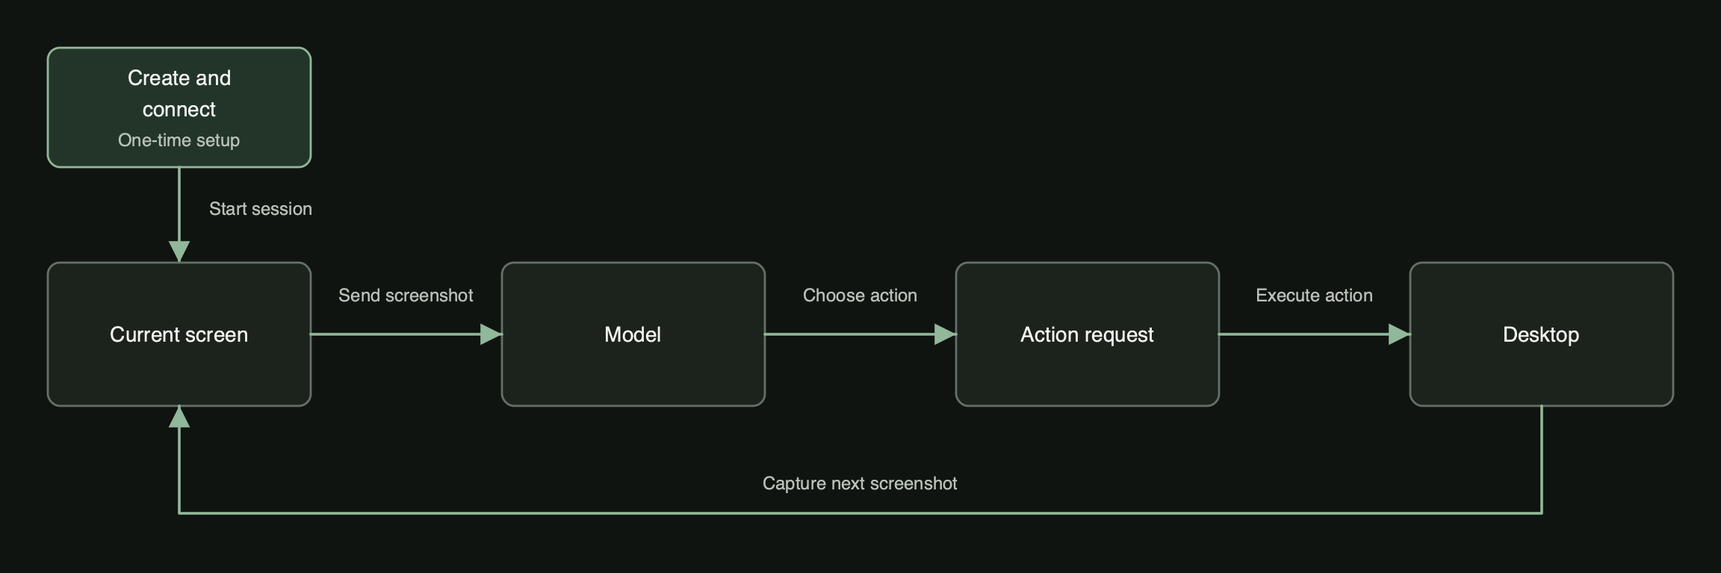
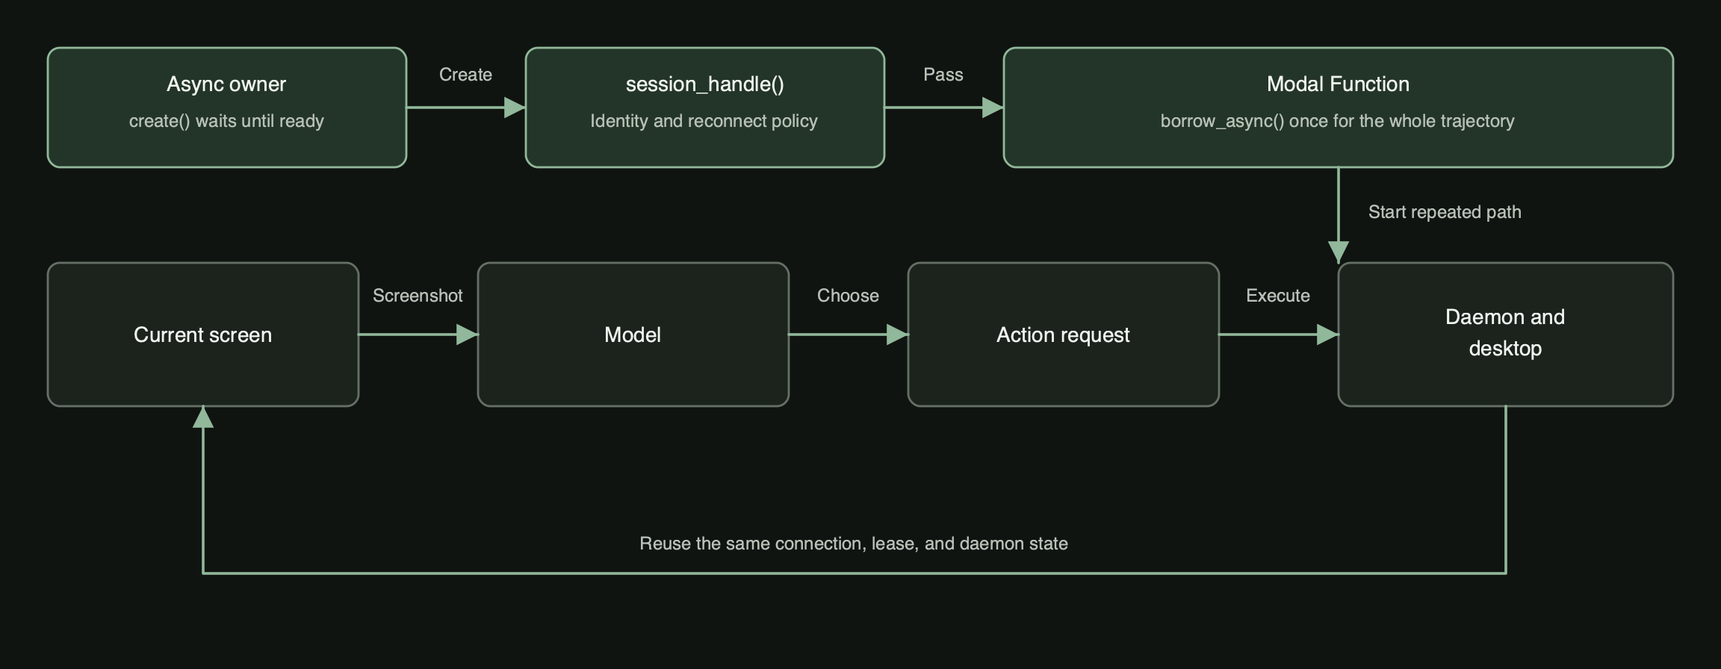
docs(blog): connect async provisioning to trajectories

diff --git a/docs/drafts/modal-optimized-low-latency.html b/docs/drafts/modal-optimized-low-latency.html
@@ -175,7 +175,9 @@
 <p><a href="https://openai.com/index/previewing-gpt-5-6-sol/">OpenAI says GPT-5.6 Sol on Cerebras can generate up to 750 tokens per second</a>. At that speed, hundreds of milliseconds in the computer interface stop hiding behind slow generation. Longer trajectories make it worse, because the delay is paid on every turn before the user sees anything. Infra will be the next bottleneck in frontier computer-use agents.</p>
 <p>I first thought of all the ways we use remote desktops today. For IT support, remote desktop control has to feel almost seamless. So, I searched for the most lightweight remote desktop control framework. Then I found RustDesk, an <a href="https://rustdesk.com/docs/en/self-host/">open-source remote desktop system</a>. I knew this was it, even the name RustDesk sounded fast. Looking inside, I saw that it connected to the remote machine once, when the session starts, and reuses that connection for everything after. For example, moving your mouse sends an event over a connection that is actively ready.</p>
 <p>My first Modal setup did the opposite. Every action launched, used that launch once, and would throw it away. It provided a quick way to push actions and not have to worry about complexity. But in the need for speed, I identified the various odd ways this waste happens, over and over again in different parts of the system, and saved that time using Modal primitives and engineering. The result was an open-source SDK whose optimized path led the benchmark.</p>
-<p><img src="../assets/modal-optimized-agent-loop.svg" alt="Creation is separate from the repeated computer-use loop" /></p>
+<p>That split is now literal in the API. An async owner creates the desktop once with <code>AsyncComputerSandbox.create()</code>, waits until its daemon is ready, and produces a compact <code>session_handle()</code>. A Modal Function receives that handle and enters <code>borrow_async()</code> once around the whole trajectory. Screenshots and actions then reuse the same async daemon connection until the model is done.</p>
+<p><img src="../assets/modal-optimized-agent-loop.svg" alt="An async owner provisions once, then a Modal Function borrows one connection for the repeated computer-use loop" /></p>
+<p>The owner and borrower solve different problems. The owner controls the expensive cloud resource. The borrower controls one run against that resource. Leaving <code>borrow_async()</code> releases the run's lease but keeps the desktop and its daemon state alive. Leaving the owner's create context terminates the Sandbox. That makes it possible to run several trajectories against one prepared desktop without hiding who pays for it or who is allowed to shut it down.</p>
 <h2>Round trips</h2>
 <p>Each screenshot request left my laptop, crossed into Modal, reached the daemon inside the desktop Sandbox, and carried the PNG back over the same authenticated route. A full 1024x768 screenshot took 116 ms. This was on the simple Modal setup. Then the model picked a click, and the action request made the same full round trip again.</p>
 <p>The desktop is a Linux machine in a Sandbox, and the daemon inside it owns the screen and the mouse. The client is the code that asks for a screenshot and sends back a click, and it can run anywhere that can reach the daemon.</p>
@@ -254,18 +256,20 @@
 <p>This is an experimental feature that will matter even more as CUAs get faster over time. In tailored use cases, I can foresee the need for application-layer changed frame contracts as a naive optimization.</p>
 <h2>Under a cent a minute</h2>
 <p>Modal bills a Function and a Sandbox for the seconds each one is alive. The two together cost under a cent a minute. Between runs, it costs nothing. The entire benchmark run cost only about 6 cents.</p>
-<h2>Startup now takes 10 seconds</h2>
+<h2>Startup still takes 10 seconds</h2>
 <p>Creating a fresh Modal desktop and receiving its first validated screenshot right now takes 10.2 seconds.</p>
+<p>Native async provisioning does not make that cold start shorter. It keeps the owner's event loop free while Modal allocates the Sandbox, starts the desktop, opens ingress, and waits for the daemon. If the owner is cancelled halfway through, the SDK finishes cleaning up anything Modal already allocated instead of leaving a paid resource behind.</p>
+<p>The latency win begins after startup. Provision the desktop once, pass its session handle to a nearby Modal Function, and hold one <code>borrow_async()</code> context across the full screenshot, model, and action loop. The cold start is paid once. The repeated path keeps its connection, lease, and daemon state.</p>
 <p>Further work needs a timestamp at lifecycle boundaries. If allocation dominates, a pool of ready desktops is worth testing. If desktop or daemon startup dominates, the work belongs on the image instead. A pool or a heavier image each buy startup time at a price, so I kept this SDK light enough that the choice belongs to whoever runs it.</p>
 <h2>Computer-use SDKs for fun and profit</h2>
-<p>On Modal, a fifty-turn task that spent sixteen seconds waiting now spends under two and a half. Every one of those changes was the same change. Something that was being built once per action became something built once per session.</p>
+<p>On Modal, a fifty-turn task that spent sixteen seconds waiting now spends under two and a half. Every one of those changes was the same change. Something that was being built once per action became something built once per session. The desktop is created once, the trajectory borrows one connection, and the daemon keeps its useful state between turns.</p>
 <p>The compared provider-default APIs did not expose these seams to me: where the client runs, what a single request carries, how the daemon holds the display, and who owns a child process. Modal did. A Sandbox and a Function are separate things I could place in the same region, and cost efficiency came from intuitive knobs to control resources.</p>
 <p>That is how I tuned Modal's general-purpose AI infra platform to lead this four-provider, five-path benchmark. The future is customization.</p>
 <h2>Source notes</h2>
 <ul>
 <li>Current warm measurements: <a href="../../benchmark-data/modal-optimized-provider-2026-07-30.json">Modal optimized samples, 2026-07-30</a>, <a href="../../benchmark-data/provider-compare-coordinate-command-2026-07-30.json">provider-default samples, 2026-07-30</a>, <a href="../../benchmark-data/modal-observation-2026-07-30.json">changed-frame samples, 2026-07-30</a>, <a href="../../benchmark-data/modal-caller-placement-us-west-2-2026-07-31.json">caller-placement comparison, 2026-07-31</a>, <a href="../../benchmark-data/modal-action-batching-ab-2026-07-29.json">four-click batching A/B, 2026-07-29</a>, <a href="../../benchmark-data/modal-optimized-ingress-ab-2026-07-29.json">Connect versus attested-tunnel A/B, 2026-07-29</a>, and <a href="../../benchmark-data/modal-subprocess-runner-ab-2026-07-30.json">subprocess-runner A/B, 2026-07-30</a>. Every column in the warm table runs over the repository's standardized attested ingress. A controlled A/B between that path and Connect found no clear winner. The command section cites the 2026-07-30 subprocess-runner A/B, which ran 30 measured samples and one warmup per arm over the attested-tunnel path; its status is candidate because the run was not preregistered. Its shell-command figures are a different measurement from the table's shell-command row. That A/B requested 4 cores and 8 GiB for the desktop and for the runner, and the warm run requested 1 core and 2 GiB, so reading one against the other changes the machine shape as well as the subprocess backend. That row's Modal optimized cell comes from the 2026-07-30 optimized run and its other cells come from the 2026-07-30 provider-default run. The shared-loop arm's p95 rests on two of its thirty samples; without them that arm's mean falls from 74.7 ms to 54.8 ms. The 50-turn opener is arithmetic over separate warm p50s, not a full agent trajectory.</li>
 <li>Historical diagnostics: <a href="../benchmark-results-2026-07-26-provider-results.md">provider benchmark results, 2026-07-26</a>, <a href="../../benchmark-data/provider-results-2026-07-26.json">combined sanitized result</a>, <a href="../../benchmark-data/modal-optimized-competitive-us-west-2-2026-07-24.json">Connect caller-placement evidence</a>, <a href="../archive/benchmarks/benchmark-results-2026-07-23-native-x11-input.md">native X11 input benchmark</a>, and <a href="../../benchmark-data/tzafon-coordinate-command-context-2026-07-24.json">command runner A/B context</a>. The Modal-default screenshot diagnostic separately summarized 22.83 ms p50 for daemon capture and encoding, 126.86 ms end to end, and a 103.91 ms remainder. Those summaries used different samples, so I do not add the component medians or label the remainder as network time. The 2026-07-24 caller-placement figures are superseded by the 2026-07-31 rerun. That run measured over Connect with the desktop at 4 cores and 8 GiB and the runner at 1 core and 1 GiB, so its ratios do not carry over to the current section. The ten-sample subprocess-runner A/B in that context artifact predates the process-group safety fix and is superseded by the 2026-07-30 run. The two are not interchangeable: the older arms used the Connect runner path, did not pin CPU or memory, and measured a slightly different shell payload. At ten samples per arm the thread pool and the private loop were within noise of each other, and the thirty-sample run is what separates them. The historical command benchmark asked for <code>sh -lc</code>; the current comparison gives every provider the same logical <code>sh -c</code> command and requires exit zero with exact stdout <code>&quot;42\n&quot;</code>.</li>
-<li>Implementation and contracts: <a href="../performance.md">performance documentation</a>, <a href="../benchmarking.md">benchmarking methodology</a>, <a href="../experimental-visual-change-observation.md">visual-change observation contract</a>, and <a href="../../research/modal-optimized-create-benchmark-method.md">create-to-validated-screenshot method</a>.</li>
+<li>Implementation and contracts: <a href="../api.md">async lifecycle API</a>, <a href="../../examples/async_modal_owner.py">native async owner example</a>, <a href="../../examples/modal_function_session_handoff.py">Function session-handoff example</a>, <a href="../performance.md">performance documentation</a>, <a href="../benchmarking.md">benchmarking methodology</a>, <a href="../experimental-visual-change-observation.md">visual-change observation contract</a>, and <a href="../../research/modal-optimized-create-benchmark-method.md">create-to-validated-screenshot method</a>.</li>
 <li>Product surfaces: <a href="https://e2b.dev/docs/use-cases/computer-use">E2B Computer use</a> and <a href="https://www.daytona.io/docs/en/computer-use/">Daytona Computer Use</a>.</li>
 <li>Modal mechanics and cost: <a href="https://modal.com/docs/guide/apps">Functions and Apps</a>, <a href="https://modal.com/docs/guide/region-selection">region selection</a>, <a href="https://modal.com/docs/guide/sandbox-networking#connecting-to-sandboxes-with-http-and-websockets">Sandbox Connect</a>, <a href="https://modal.com/docs/guide/tunnels">encrypted tunnels</a>, <a href="https://modal.com/docs/guide/concurrent-inputs">input concurrency</a>, <a href="https://modal.com/docs/guide/scale">Function scaling</a>, <a href="https://modal.com/docs/guide/sandbox-resources">Sandbox resources</a>, <a href="https://modal.com/pricing">current list pricing</a>, and the tracked <a href="../../research/modal-computer-use-provider-cost-comparison-2026-07-29.md">provider and cost research memo</a>. Costs use Modal's rates as of 2026-07-29, for the 1-core, 2 GiB Function and Sandbox the run requests. Region selection adds 1.5 to 1.75x, and I used the higher end (1.75x) so the figure is the most this run could have cost.</li>
 <li>External mechanisms: <a href="https://openai.com/index/previewing-gpt-5-6-sol/">OpenAI's GPT-5.6 Sol preview</a>, <a href="https://developers.openai.com/api/docs/guides/tools-computer-use">OpenAI Computer use</a>, <a href="https://platform.claude.com/docs/en/agents-and-tools/tool-use/parallel-tool-use">Anthropic parallel tool use</a>, <a href="https://github.com/browser-use/browser-use/blob/main/browser_use/agent/service.py">Browser Use's multi-action implementation</a>, <a href="https://rustdesk.com/docs/en/self-host/">RustDesk self-hosting</a>, <a href="https://developer.apple.com/documentation/coregraphics/cgevent">Quartz event services</a>, <a href="https://github.com/jordansissel/xdotool"><code>xdotool</code>'s XTest/Xlib implementation</a>, <a href="https://www.x.org/releases/X11R7.6/doc/xextproto/xtest.html">the XTest protocol specification</a>, <a href="https://python-mss.readthedocs.io/latest/release-history/v10.2.0.html">MSS shared-memory capture</a>, <a href="https://www.x.org/releases/X11R7.6/doc/libX11/specs/libX11/libX11.html">X11 selection ownership</a>, and Modal's <a href="https://modal.com/blog/scaling-to-1-million-concurrent-sandboxes-in-seconds">sandbox architecture account</a>.</li>

diff --git a/tests/test_blog_publication_helpers.py b/tests/test_blog_publication_helpers.py
@@ -13,6 +13,17 @@ import edit_blog_preview  # noqa: E402
 import export_article_images  # noqa: E402
 
 
+def test_export_links_to_the_dedicated_article_branch() -> None:
+    source = export_article_images.REPO / "docs/drafts/modal-optimized-low-latency.md"
+
+    url = export_article_images.absolute_link(source, "../../examples/async_modal_owner.py")
+
+    assert url == (
+        "https://github.com/ashtonchew/modal-computer-use/blob/"
+        "draft/modal-computer-use-latency-article/examples/async_modal_owner.py"
+    )
+
+
 def test_export_refuses_a_nonempty_unowned_output_directory(tmp_path) -> None:
     source = tmp_path / "article.md"
     source.write_text("draft", encoding="utf-8")

diff --git a/scripts/export_article_images.py b/scripts/export_article_images.py
@@ -42,7 +42,8 @@ DEFAULT_SOURCE = REPO / "docs" / "drafts" / "modal-optimized-low-latency.md"
 IMAGE = re.compile(r"!\[[^\]]*\]\(([^)\s]+)\)")
 LINK = re.compile(r"(?<!!)\[[^\]]*\]\(([^)\s]+)\)")
 STRIP_PREFIX = "modal-optimized-"
-BLOB_URL = "https://github.com/ashtonchew/modal-computer-use/blob/main/"
+PUBLICATION_BRANCH = "draft/modal-computer-use-latency-article"
+BLOB_URL = f"https://github.com/ashtonchew/modal-computer-use/blob/{PUBLICATION_BRANCH}/"
 EXTERNAL_SCHEMES = ("http://", "https://", "data:", "mailto:", "ftp:", "tel:")
 BUNDLE_MANIFEST = ".article-image-export.json"
 BUNDLE_VERSION = 1

diff --git a/docs/drafts/modal-optimized-low-latency-images/paste.md b/docs/drafts/modal-optimized-low-latency-images/paste.md
@@ -18,7 +18,11 @@ I first thought of all the ways we use remote desktops today. For IT support, re
 
 My first Modal setup did the opposite. Every action launched, used that launch once, and would throw it away. It provided a quick way to push actions and not have to worry about complexity. But in the need for speed, I identified the various odd ways this waste happens, over and over again in different parts of the system, and saved that time using Modal primitives and engineering. The result was an open-source SDK whose optimized path led the benchmark.
 
-[2_agent-loop.png  ::  Creation is separate from the repeated computer-use loop]
+That split is now literal in the API. An async owner creates the desktop once with `AsyncComputerSandbox.create()`, waits until its daemon is ready, and produces a compact `session_handle()`. A Modal Function receives that handle and enters `borrow_async()` once around the whole trajectory. Screenshots and actions then reuse the same async daemon connection until the model is done.
+
+[2_agent-loop.png  ::  An async owner provisions once, then a Modal Function borrows one connection for the repeated computer-use loop]
+
+The owner and borrower solve different problems. The owner controls the expensive cloud resource. The borrower controls one run against that resource. Leaving `borrow_async()` releases the run's lease but keeps the desktop and its daemon state alive. Leaving the owner's create context terminates the Sandbox. That makes it possible to run several trajectories against one prepared desktop without hiding who pays for it or who is allowed to shut it down.
 
 ## Round trips
 
@@ -175,15 +179,19 @@ This is an experimental feature that will matter even more as CUAs get faster ov
 
 Modal bills a Function and a Sandbox for the seconds each one is alive. The two together cost under a cent a minute. Between runs, it costs nothing. The entire benchmark run cost only about 6 cents.
 
-## Startup now takes 10 seconds
+## Startup still takes 10 seconds
 
 Creating a fresh Modal desktop and receiving its first validated screenshot right now takes 10.2 seconds.
+
+Native async provisioning does not make that cold start shorter. It keeps the owner's event loop free while Modal allocates the Sandbox, starts the desktop, opens ingress, and waits for the daemon. If the owner is cancelled halfway through, the SDK finishes cleaning up anything Modal already allocated instead of leaving a paid resource behind.
+
+The latency win begins after startup. Provision the desktop once, pass its session handle to a nearby Modal Function, and hold one `borrow_async()` context across the full screenshot, model, and action loop. The cold start is paid once. The repeated path keeps its connection, lease, and daemon state.
 
 Further work needs a timestamp at lifecycle boundaries. If allocation dominates, a pool of ready desktops is worth testing. If desktop or daemon startup dominates, the work belongs on the image instead. A pool or a heavier image each buy startup time at a price, so I kept this SDK light enough that the choice belongs to whoever runs it.
 
 ## Computer-use SDKs for fun and profit
 
-On Modal, a fifty-turn task that spent sixteen seconds waiting now spends under two and a half. Every one of those changes was the same change. Something that was being built once per action became something built once per session.
+On Modal, a fifty-turn task that spent sixteen seconds waiting now spends under two and a half. Every one of those changes was the same change. Something that was being built once per action became something built once per session. The desktop is created once, the trajectory borrows one connection, and the daemon keeps its useful state between turns.
 
 The compared provider-default APIs did not expose these seams to me: where the client runs, what a single request carries, how the daemon holds the display, and who owns a child process. Modal did. A Sandbox and a Function are separate things I could place in the same region, and cost efficiency came from intuitive knobs to control resources.
 
@@ -191,11 +199,11 @@ That is how I tuned Modal's general-purpose AI infra platform to lead this four-
 
 ## Source notes
 
-- Current warm measurements: [Modal optimized samples, 2026-07-30](https://github.com/ashtonchew/modal-computer-use/blob/main/benchmark-data/modal-optimized-provider-2026-07-30.json), [provider-default samples, 2026-07-30](https://github.com/ashtonchew/modal-computer-use/blob/main/benchmark-data/provider-compare-coordinate-command-2026-07-30.json), [changed-frame samples, 2026-07-30](https://github.com/ashtonchew/modal-computer-use/blob/main/benchmark-data/modal-observation-2026-07-30.json), [caller-placement comparison, 2026-07-31](https://github.com/ashtonchew/modal-computer-use/blob/main/benchmark-data/modal-caller-placement-us-west-2-2026-07-31.json), [four-click batching A/B, 2026-07-29](https://github.com/ashtonchew/modal-computer-use/blob/main/benchmark-data/modal-action-batching-ab-2026-07-29.json), [Connect versus attested-tunnel A/B, 2026-07-29](https://github.com/ashtonchew/modal-computer-use/blob/main/benchmark-data/modal-optimized-ingress-ab-2026-07-29.json), and [subprocess-runner A/B, 2026-07-30](https://github.com/ashtonchew/modal-computer-use/blob/main/benchmark-data/modal-subprocess-runner-ab-2026-07-30.json). Every column in the warm table runs over the repository's standardized attested ingress. A controlled A/B between that path and Connect found no clear winner. The command section cites the 2026-07-30 subprocess-runner A/B, which ran 30 measured samples and one warmup per arm over the attested-tunnel path; its status is candidate because the run was not preregistered. Its shell-command figures are a different measurement from the table's shell-command row. That A/B requested 4 cores and 8 GiB for the desktop and for the runner, and the warm run requested 1 core and 2 GiB, so reading one against the other changes the machine shape as well as the subprocess backend. That row's Modal optimized cell comes from the 2026-07-30 optimized run and its other cells come from the 2026-07-30 provider-default run. The shared-loop arm's p95 rests on two of its thirty samples; without them that arm's mean falls from 74.7 ms to 54.8 ms. The 50-turn opener is arithmetic over separate warm p50s, not a full agent trajectory.
-- Historical diagnostics: [provider benchmark results, 2026-07-26](https://github.com/ashtonchew/modal-computer-use/blob/main/docs/benchmark-results-2026-07-26-provider-results.md), [combined sanitized result](https://github.com/ashtonchew/modal-computer-use/blob/main/benchmark-data/provider-results-2026-07-26.json), [Connect caller-placement evidence](https://github.com/ashtonchew/modal-computer-use/blob/main/benchmark-data/modal-optimized-competitive-us-west-2-2026-07-24.json), [native X11 input benchmark](https://github.com/ashtonchew/modal-computer-use/blob/main/docs/archive/benchmarks/benchmark-results-2026-07-23-native-x11-input.md), and [command runner A/B context](https://github.com/ashtonchew/modal-computer-use/blob/main/benchmark-data/tzafon-coordinate-command-context-2026-07-24.json). The Modal-default screenshot diagnostic separately summarized 22.83 ms p50 for daemon capture and encoding, 126.86 ms end to end, and a 103.91 ms remainder. Those summaries used different samples, so I do not add the component medians or label the remainder as network time. The 2026-07-24 caller-placement figures are superseded by the 2026-07-31 rerun. That run measured over Connect with the desktop at 4 cores and 8 GiB and the runner at 1 core and 1 GiB, so its ratios do not carry over to the current section. The ten-sample subprocess-runner A/B in that context artifact predates the process-group safety fix and is superseded by the 2026-07-30 run. The two are not interchangeable: the older arms used the Connect runner path, did not pin CPU or memory, and measured a slightly different shell payload. At ten samples per arm the thread pool and the private loop were within noise of each other, and the thirty-sample run is what separates them. The historical command benchmark asked for `sh -lc`; the current comparison gives every provider the same logical `sh -c` command and requires exit zero with exact stdout `"42\n"`.
-- Implementation and contracts: [performance documentation](https://github.com/ashtonchew/modal-computer-use/blob/main/docs/performance.md), [benchmarking methodology](https://github.com/ashtonchew/modal-computer-use/blob/main/docs/benchmarking.md), [visual-change observation contract](https://github.com/ashtonchew/modal-computer-use/blob/main/docs/experimental-visual-change-observation.md), and [create-to-validated-screenshot method](https://github.com/ashtonchew/modal-computer-use/blob/main/research/modal-optimized-create-benchmark-method.md).
+- Current warm measurements: [Modal optimized samples, 2026-07-30](https://github.com/ashtonchew/modal-computer-use/blob/draft/modal-computer-use-latency-article/benchmark-data/modal-optimized-provider-2026-07-30.json), [provider-default samples, 2026-07-30](https://github.com/ashtonchew/modal-computer-use/blob/draft/modal-computer-use-latency-article/benchmark-data/provider-compare-coordinate-command-2026-07-30.json), [changed-frame samples, 2026-07-30](https://github.com/ashtonchew/modal-computer-use/blob/draft/modal-computer-use-latency-article/benchmark-data/modal-observation-2026-07-30.json), [caller-placement comparison, 2026-07-31](https://github.com/ashtonchew/modal-computer-use/blob/draft/modal-computer-use-latency-article/benchmark-data/modal-caller-placement-us-west-2-2026-07-31.json), [four-click batching A/B, 2026-07-29](https://github.com/ashtonchew/modal-computer-use/blob/draft/modal-computer-use-latency-article/benchmark-data/modal-action-batching-ab-2026-07-29.json), [Connect versus attested-tunnel A/B, 2026-07-29](https://github.com/ashtonchew/modal-computer-use/blob/draft/modal-computer-use-latency-article/benchmark-data/modal-optimized-ingress-ab-2026-07-29.json), and [subprocess-runner A/B, 2026-07-30](https://github.com/ashtonchew/modal-computer-use/blob/draft/modal-computer-use-latency-article/benchmark-data/modal-subprocess-runner-ab-2026-07-30.json). Every column in the warm table runs over the repository's standardized attested ingress. A controlled A/B between that path and Connect found no clear winner. The command section cites the 2026-07-30 subprocess-runner A/B, which ran 30 measured samples and one warmup per arm over the attested-tunnel path; its status is candidate because the run was not preregistered. Its shell-command figures are a different measurement from the table's shell-command row. That A/B requested 4 cores and 8 GiB for the desktop and for the runner, and the warm run requested 1 core and 2 GiB, so reading one against the other changes the machine shape as well as the subprocess backend. That row's Modal optimized cell comes from the 2026-07-30 optimized run and its other cells come from the 2026-07-30 provider-default run. The shared-loop arm's p95 rests on two of its thirty samples; without them that arm's mean falls from 74.7 ms to 54.8 ms. The 50-turn opener is arithmetic over separate warm p50s, not a full agent trajectory.
+- Historical diagnostics: [provider benchmark results, 2026-07-26](https://github.com/ashtonchew/modal-computer-use/blob/draft/modal-computer-use-latency-article/docs/benchmark-results-2026-07-26-provider-results.md), [combined sanitized result](https://github.com/ashtonchew/modal-computer-use/blob/draft/modal-computer-use-latency-article/benchmark-data/provider-results-2026-07-26.json), [Connect caller-placement evidence](https://github.com/ashtonchew/modal-computer-use/blob/draft/modal-computer-use-latency-article/benchmark-data/modal-optimized-competitive-us-west-2-2026-07-24.json), [native X11 input benchmark](https://github.com/ashtonchew/modal-computer-use/blob/draft/modal-computer-use-latency-article/docs/archive/benchmarks/benchmark-results-2026-07-23-native-x11-input.md), and [command runner A/B context](https://github.com/ashtonchew/modal-computer-use/blob/draft/modal-computer-use-latency-article/benchmark-data/tzafon-coordinate-command-context-2026-07-24.json). The Modal-default screenshot diagnostic separately summarized 22.83 ms p50 for daemon capture and encoding, 126.86 ms end to end, and a 103.91 ms remainder. Those summaries used different samples, so I do not add the component medians or label the remainder as network time. The 2026-07-24 caller-placement figures are superseded by the 2026-07-31 rerun. That run measured over Connect with the desktop at 4 cores and 8 GiB and the runner at 1 core and 1 GiB, so its ratios do not carry over to the current section. The ten-sample subprocess-runner A/B in that context artifact predates the process-group safety fix and is superseded by the 2026-07-30 run. The two are not interchangeable: the older arms used the Connect runner path, did not pin CPU or memory, and measured a slightly different shell payload. At ten samples per arm the thread pool and the private loop were within noise of each other, and the thirty-sample run is what separates them. The historical command benchmark asked for `sh -lc`; the current comparison gives every provider the same logical `sh -c` command and requires exit zero with exact stdout `"42\n"`.
+- Implementation and contracts: [async lifecycle API](https://github.com/ashtonchew/modal-computer-use/blob/draft/modal-computer-use-latency-article/docs/api.md), [native async owner example](https://github.com/ashtonchew/modal-computer-use/blob/draft/modal-computer-use-latency-article/examples/async_modal_owner.py), [Function session-handoff example](https://github.com/ashtonchew/modal-computer-use/blob/draft/modal-computer-use-latency-article/examples/modal_function_session_handoff.py), [performance documentation](https://github.com/ashtonchew/modal-computer-use/blob/draft/modal-computer-use-latency-article/docs/performance.md), [benchmarking methodology](https://github.com/ashtonchew/modal-computer-use/blob/draft/modal-computer-use-latency-article/docs/benchmarking.md), [visual-change observation contract](https://github.com/ashtonchew/modal-computer-use/blob/draft/modal-computer-use-latency-article/docs/experimental-visual-change-observation.md), and [create-to-validated-screenshot method](https://github.com/ashtonchew/modal-computer-use/blob/draft/modal-computer-use-latency-article/research/modal-optimized-create-benchmark-method.md).
 - Product surfaces: [E2B Computer use](https://e2b.dev/docs/use-cases/computer-use) and [Daytona Computer Use](https://www.daytona.io/docs/en/computer-use/).
-- Modal mechanics and cost: [Functions and Apps](https://modal.com/docs/guide/apps), [region selection](https://modal.com/docs/guide/region-selection), [Sandbox Connect](https://modal.com/docs/guide/sandbox-networking#connecting-to-sandboxes-with-http-and-websockets), [encrypted tunnels](https://modal.com/docs/guide/tunnels), [input concurrency](https://modal.com/docs/guide/concurrent-inputs), [Function scaling](https://modal.com/docs/guide/scale), [Sandbox resources](https://modal.com/docs/guide/sandbox-resources), [current list pricing](https://modal.com/pricing), and the tracked [provider and cost research memo](https://github.com/ashtonchew/modal-computer-use/blob/main/research/modal-computer-use-provider-cost-comparison-2026-07-29.md). Costs use Modal's rates as of 2026-07-29, for the 1-core, 2 GiB Function and Sandbox the run requests. Region selection adds 1.5 to 1.75x, and I used the higher end (1.75x) so the figure is the most this run could have cost.
+- Modal mechanics and cost: [Functions and Apps](https://modal.com/docs/guide/apps), [region selection](https://modal.com/docs/guide/region-selection), [Sandbox Connect](https://modal.com/docs/guide/sandbox-networking#connecting-to-sandboxes-with-http-and-websockets), [encrypted tunnels](https://modal.com/docs/guide/tunnels), [input concurrency](https://modal.com/docs/guide/concurrent-inputs), [Function scaling](https://modal.com/docs/guide/scale), [Sandbox resources](https://modal.com/docs/guide/sandbox-resources), [current list pricing](https://modal.com/pricing), and the tracked [provider and cost research memo](https://github.com/ashtonchew/modal-computer-use/blob/draft/modal-computer-use-latency-article/research/modal-computer-use-provider-cost-comparison-2026-07-29.md). Costs use Modal's rates as of 2026-07-29, for the 1-core, 2 GiB Function and Sandbox the run requests. Region selection adds 1.5 to 1.75x, and I used the higher end (1.75x) so the figure is the most this run could have cost.
 - External mechanisms: [OpenAI's GPT-5.6 Sol preview](https://openai.com/index/previewing-gpt-5-6-sol/), [OpenAI Computer use](https://developers.openai.com/api/docs/guides/tools-computer-use), [Anthropic parallel tool use](https://platform.claude.com/docs/en/agents-and-tools/tool-use/parallel-tool-use), [Browser Use's multi-action implementation](https://github.com/browser-use/browser-use/blob/main/browser_use/agent/service.py), [RustDesk self-hosting](https://rustdesk.com/docs/en/self-host/), [Quartz event services](https://developer.apple.com/documentation/coregraphics/cgevent), [`xdotool`'s XTest/Xlib implementation](https://github.com/jordansissel/xdotool), [the XTest protocol specification](https://www.x.org/releases/X11R7.6/doc/xextproto/xtest.html), [MSS shared-memory capture](https://python-mss.readthedocs.io/latest/release-history/v10.2.0.html), [X11 selection ownership](https://www.x.org/releases/X11R7.6/doc/libX11/specs/libX11/libX11.html), and Modal's [sandbox architecture account](https://modal.com/blog/scaling-to-1-million-concurrent-sandboxes-in-seconds).
 - Source revisions: the warm table's optimized column ran at `a497671` and its four default columns ran at `7cb39f7`. One commit separates those revisions, and it touched only documentation, examples, and tests, so the `src/` diff between them is empty.
 

diff --git a/docs/drafts/modal-optimized-low-latency.md b/docs/drafts/modal-optimized-low-latency.md
@@ -18,7 +18,11 @@ I first thought of all the ways we use remote desktops today. For IT support, re
 
 My first Modal setup did the opposite. Every action launched, used that launch once, and would throw it away. It provided a quick way to push actions and not have to worry about complexity. But in the need for speed, I identified the various odd ways this waste happens, over and over again in different parts of the system, and saved that time using Modal primitives and engineering. The result was an open-source SDK whose optimized path led the benchmark.
 
-![Creation is separate from the repeated computer-use loop](../assets/modal-optimized-agent-loop.svg)
+That split is now literal in the API. An async owner creates the desktop once with `AsyncComputerSandbox.create()`, waits until its daemon is ready, and produces a compact `session_handle()`. A Modal Function receives that handle and enters `borrow_async()` once around the whole trajectory. Screenshots and actions then reuse the same async daemon connection until the model is done.
+
+![An async owner provisions once, then a Modal Function borrows one connection for the repeated computer-use loop](../assets/modal-optimized-agent-loop.svg)
+
+The owner and borrower solve different problems. The owner controls the expensive cloud resource. The borrower controls one run against that resource. Leaving `borrow_async()` releases the run's lease but keeps the desktop and its daemon state alive. Leaving the owner's create context terminates the Sandbox. That makes it possible to run several trajectories against one prepared desktop without hiding who pays for it or who is allowed to shut it down.
 
 ## Round trips
 
@@ -175,15 +179,19 @@ This is an experimental feature that will matter even more as CUAs get faster ov
 
 Modal bills a Function and a Sandbox for the seconds each one is alive. The two together cost under a cent a minute. Between runs, it costs nothing. The entire benchmark run cost only about 6 cents.
 
-## Startup now takes 10 seconds
+## Startup still takes 10 seconds
 
 Creating a fresh Modal desktop and receiving its first validated screenshot right now takes 10.2 seconds.
+
+Native async provisioning does not make that cold start shorter. It keeps the owner's event loop free while Modal allocates the Sandbox, starts the desktop, opens ingress, and waits for the daemon. If the owner is cancelled halfway through, the SDK finishes cleaning up anything Modal already allocated instead of leaving a paid resource behind.
+
+The latency win begins after startup. Provision the desktop once, pass its session handle to a nearby Modal Function, and hold one `borrow_async()` context across the full screenshot, model, and action loop. The cold start is paid once. The repeated path keeps its connection, lease, and daemon state.
 
 Further work needs a timestamp at lifecycle boundaries. If allocation dominates, a pool of ready desktops is worth testing. If desktop or daemon startup dominates, the work belongs on the image instead. A pool or a heavier image each buy startup time at a price, so I kept this SDK light enough that the choice belongs to whoever runs it.
 
 ## Computer-use SDKs for fun and profit
 
-On Modal, a fifty-turn task that spent sixteen seconds waiting now spends under two and a half. Every one of those changes was the same change. Something that was being built once per action became something built once per session.
+On Modal, a fifty-turn task that spent sixteen seconds waiting now spends under two and a half. Every one of those changes was the same change. Something that was being built once per action became something built once per session. The desktop is created once, the trajectory borrows one connection, and the daemon keeps its useful state between turns.
 
 The compared provider-default APIs did not expose these seams to me: where the client runs, what a single request carries, how the daemon holds the display, and who owns a child process. Modal did. A Sandbox and a Function are separate things I could place in the same region, and cost efficiency came from intuitive knobs to control resources.
 
@@ -193,7 +201,7 @@ That is how I tuned Modal's general-purpose AI infra platform to lead this four-
 
 - Current warm measurements: [Modal optimized samples, 2026-07-30](../../benchmark-data/modal-optimized-provider-2026-07-30.json), [provider-default samples, 2026-07-30](../../benchmark-data/provider-compare-coordinate-command-2026-07-30.json), [changed-frame samples, 2026-07-30](../../benchmark-data/modal-observation-2026-07-30.json), [caller-placement comparison, 2026-07-31](../../benchmark-data/modal-caller-placement-us-west-2-2026-07-31.json), [four-click batching A/B, 2026-07-29](../../benchmark-data/modal-action-batching-ab-2026-07-29.json), [Connect versus attested-tunnel A/B, 2026-07-29](../../benchmark-data/modal-optimized-ingress-ab-2026-07-29.json), and [subprocess-runner A/B, 2026-07-30](../../benchmark-data/modal-subprocess-runner-ab-2026-07-30.json). Every column in the warm table runs over the repository's standardized attested ingress. A controlled A/B between that path and Connect found no clear winner. The command section cites the 2026-07-30 subprocess-runner A/B, which ran 30 measured samples and one warmup per arm over the attested-tunnel path; its status is candidate because the run was not preregistered. Its shell-command figures are a different measurement from the table's shell-command row. That A/B requested 4 cores and 8 GiB for the desktop and for the runner, and the warm run requested 1 core and 2 GiB, so reading one against the other changes the machine shape as well as the subprocess backend. That row's Modal optimized cell comes from the 2026-07-30 optimized run and its other cells come from the 2026-07-30 provider-default run. The shared-loop arm's p95 rests on two of its thirty samples; without them that arm's mean falls from 74.7 ms to 54.8 ms. The 50-turn opener is arithmetic over separate warm p50s, not a full agent trajectory.
 - Historical diagnostics: [provider benchmark results, 2026-07-26](../benchmark-results-2026-07-26-provider-results.md), [combined sanitized result](../../benchmark-data/provider-results-2026-07-26.json), [Connect caller-placement evidence](../../benchmark-data/modal-optimized-competitive-us-west-2-2026-07-24.json), [native X11 input benchmark](../archive/benchmarks/benchmark-results-2026-07-23-native-x11-input.md), and [command runner A/B context](../../benchmark-data/tzafon-coordinate-command-context-2026-07-24.json). The Modal-default screenshot diagnostic separately summarized 22.83 ms p50 for daemon capture and encoding, 126.86 ms end to end, and a 103.91 ms remainder. Those summaries used different samples, so I do not add the component medians or label the remainder as network time. The 2026-07-24 caller-placement figures are superseded by the 2026-07-31 rerun. That run measured over Connect with the desktop at 4 cores and 8 GiB and the runner at 1 core and 1 GiB, so its ratios do not carry over to the current section. The ten-sample subprocess-runner A/B in that context artifact predates the process-group safety fix and is superseded by the 2026-07-30 run. The two are not interchangeable: the older arms used the Connect runner path, did not pin CPU or memory, and measured a slightly different shell payload. At ten samples per arm the thread pool and the private loop were within noise of each other, and the thirty-sample run is what separates them. The historical command benchmark asked for `sh -lc`; the current comparison gives every provider the same logical `sh -c` command and requires exit zero with exact stdout `"42\n"`.
-- Implementation and contracts: [performance documentation](../performance.md), [benchmarking methodology](../benchmarking.md), [visual-change observation contract](../experimental-visual-change-observation.md), and [create-to-validated-screenshot method](../../research/modal-optimized-create-benchmark-method.md).
+- Implementation and contracts: [async lifecycle API](../api.md), [native async owner example](../../examples/async_modal_owner.py), [Function session-handoff example](../../examples/modal_function_session_handoff.py), [performance documentation](../performance.md), [benchmarking methodology](../benchmarking.md), [visual-change observation contract](../experimental-visual-change-observation.md), and [create-to-validated-screenshot method](../../research/modal-optimized-create-benchmark-method.md).
 - Product surfaces: [E2B Computer use](https://e2b.dev/docs/use-cases/computer-use) and [Daytona Computer Use](https://www.daytona.io/docs/en/computer-use/).
 - Modal mechanics and cost: [Functions and Apps](https://modal.com/docs/guide/apps), [region selection](https://modal.com/docs/guide/region-selection), [Sandbox Connect](https://modal.com/docs/guide/sandbox-networking#connecting-to-sandboxes-with-http-and-websockets), [encrypted tunnels](https://modal.com/docs/guide/tunnels), [input concurrency](https://modal.com/docs/guide/concurrent-inputs), [Function scaling](https://modal.com/docs/guide/scale), [Sandbox resources](https://modal.com/docs/guide/sandbox-resources), [current list pricing](https://modal.com/pricing), and the tracked [provider and cost research memo](../../research/modal-computer-use-provider-cost-comparison-2026-07-29.md). Costs use Modal's rates as of 2026-07-29, for the 1-core, 2 GiB Function and Sandbox the run requests. Region selection adds 1.5 to 1.75x, and I used the higher end (1.75x) so the figure is the most this run could have cost.
 - External mechanisms: [OpenAI's GPT-5.6 Sol preview](https://openai.com/index/previewing-gpt-5-6-sol/), [OpenAI Computer use](https://developers.openai.com/api/docs/guides/tools-computer-use), [Anthropic parallel tool use](https://platform.claude.com/docs/en/agents-and-tools/tool-use/parallel-tool-use), [Browser Use's multi-action implementation](https://github.com/browser-use/browser-use/blob/main/browser_use/agent/service.py), [RustDesk self-hosting](https://rustdesk.com/docs/en/self-host/), [Quartz event services](https://developer.apple.com/documentation/coregraphics/cgevent), [`xdotool`'s XTest/Xlib implementation](https://github.com/jordansissel/xdotool), [the XTest protocol specification](https://www.x.org/releases/X11R7.6/doc/xextproto/xtest.html), [MSS shared-memory capture](https://python-mss.readthedocs.io/latest/release-history/v10.2.0.html), [X11 selection ownership](https://www.x.org/releases/X11R7.6/doc/libX11/specs/libX11/libX11.html), and Modal's [sandbox architecture account](https://modal.com/blog/scaling-to-1-million-concurrent-sandboxes-in-seconds).

diff --git a/docs/drafts/README.md b/docs/drafts/README.md
@@ -59,8 +59,9 @@ to drop where.
 
 The draft cites artifacts by path relative to its own folder, which resolves where the draft lives
 and nowhere else. `paste.md` sits one folder deeper, and the published copy sits on a site with no
-repository under it, so the export rewrites every relative link to a `blob/main` URL on GitHub. The
-draft keeps its relative paths. Those URLs resolve once the repository is public.
+repository under it, so the export rewrites every relative link to the dedicated article branch on
+GitHub. The draft keeps its relative paths. Those URLs resolve once the repository is public, even
+for supporting files that intentionally stay off `main`.
 
 Rendering uses cairosvg. On macOS, Homebrew installs libcairo outside the dyld search path and
 cairocffi resolves it by soname at import, so the script locates the library and re-execs itself with
